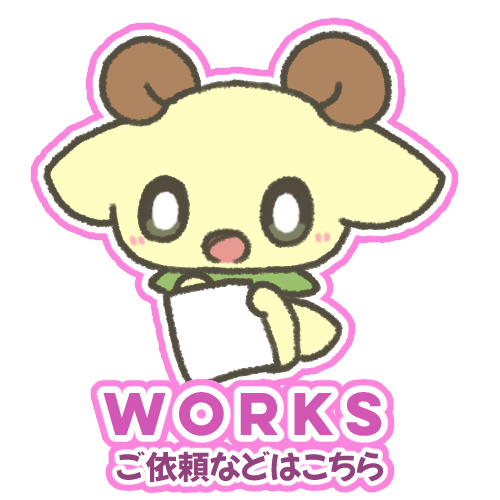
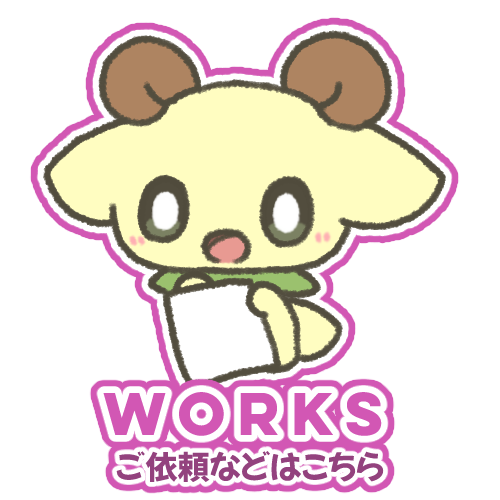
WORKSのホバー時の色味調整

diff --git a/src/routes/Home.tsx b/src/routes/Home.tsx
@@ -58,7 +58,7 @@ export default function Home() {
                 src="/static/images/webp/button_works_default.webp"
                 hoverSrc="/static/images/webp/button_works_hover.webp"
                 alt="WORKS"
-                v="2"
+                v="3"
               />
             </Link>
           </li>
